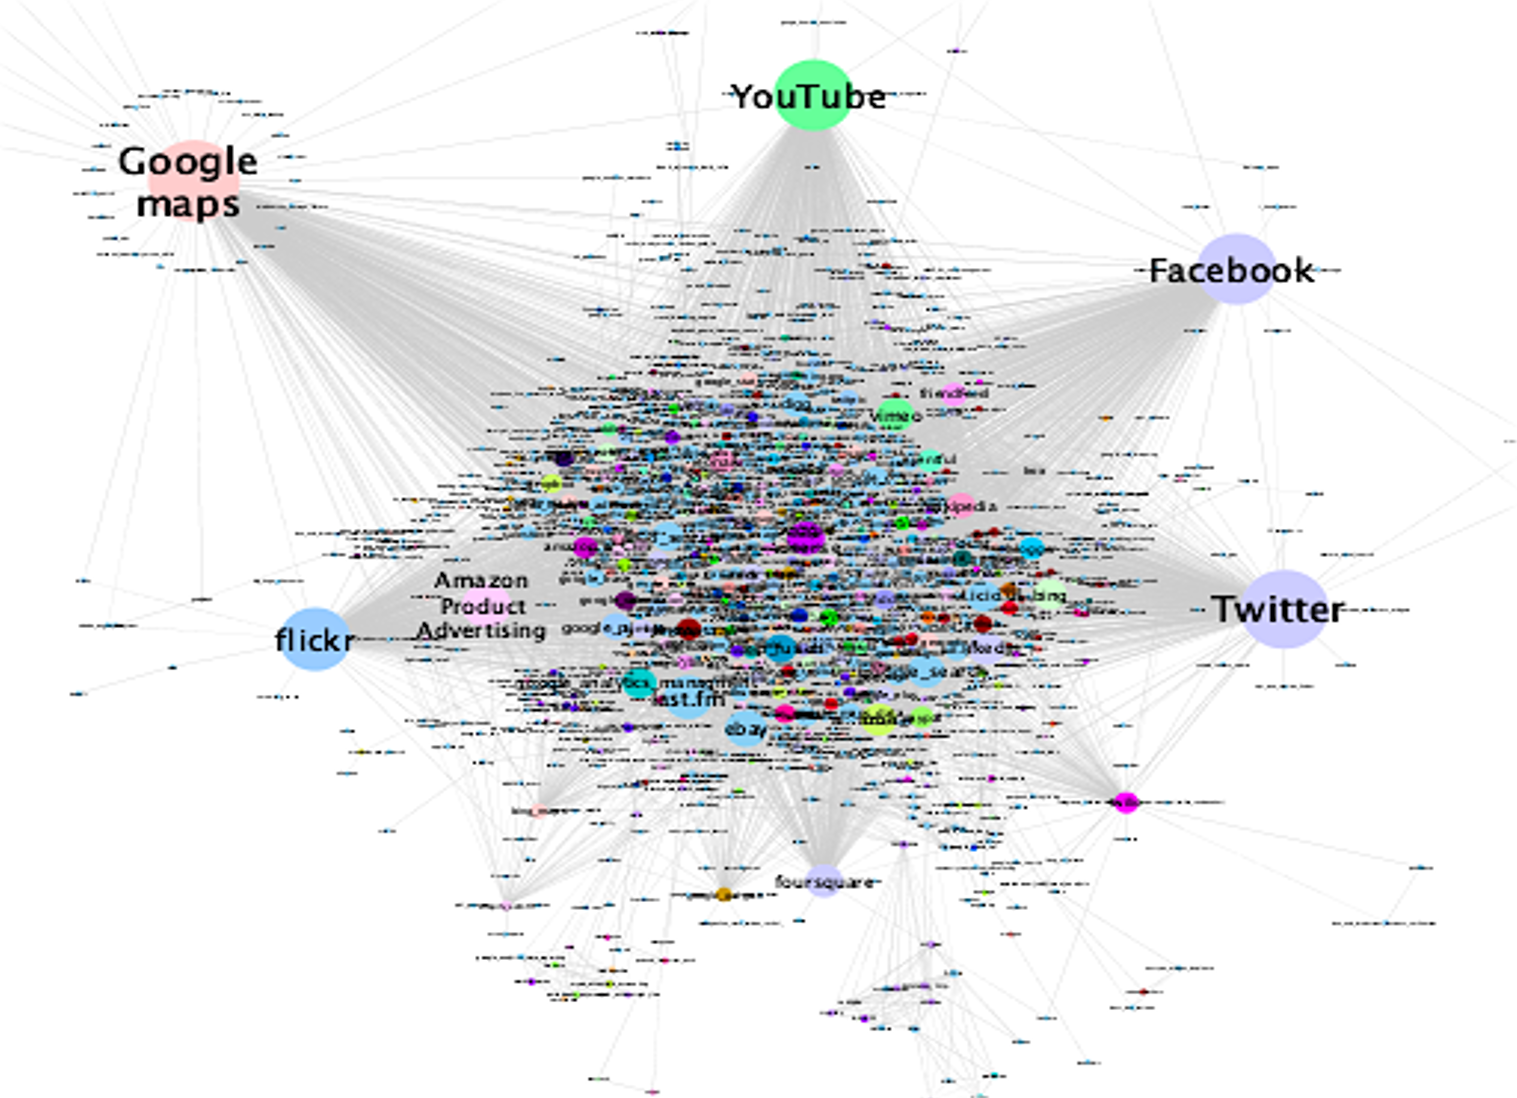
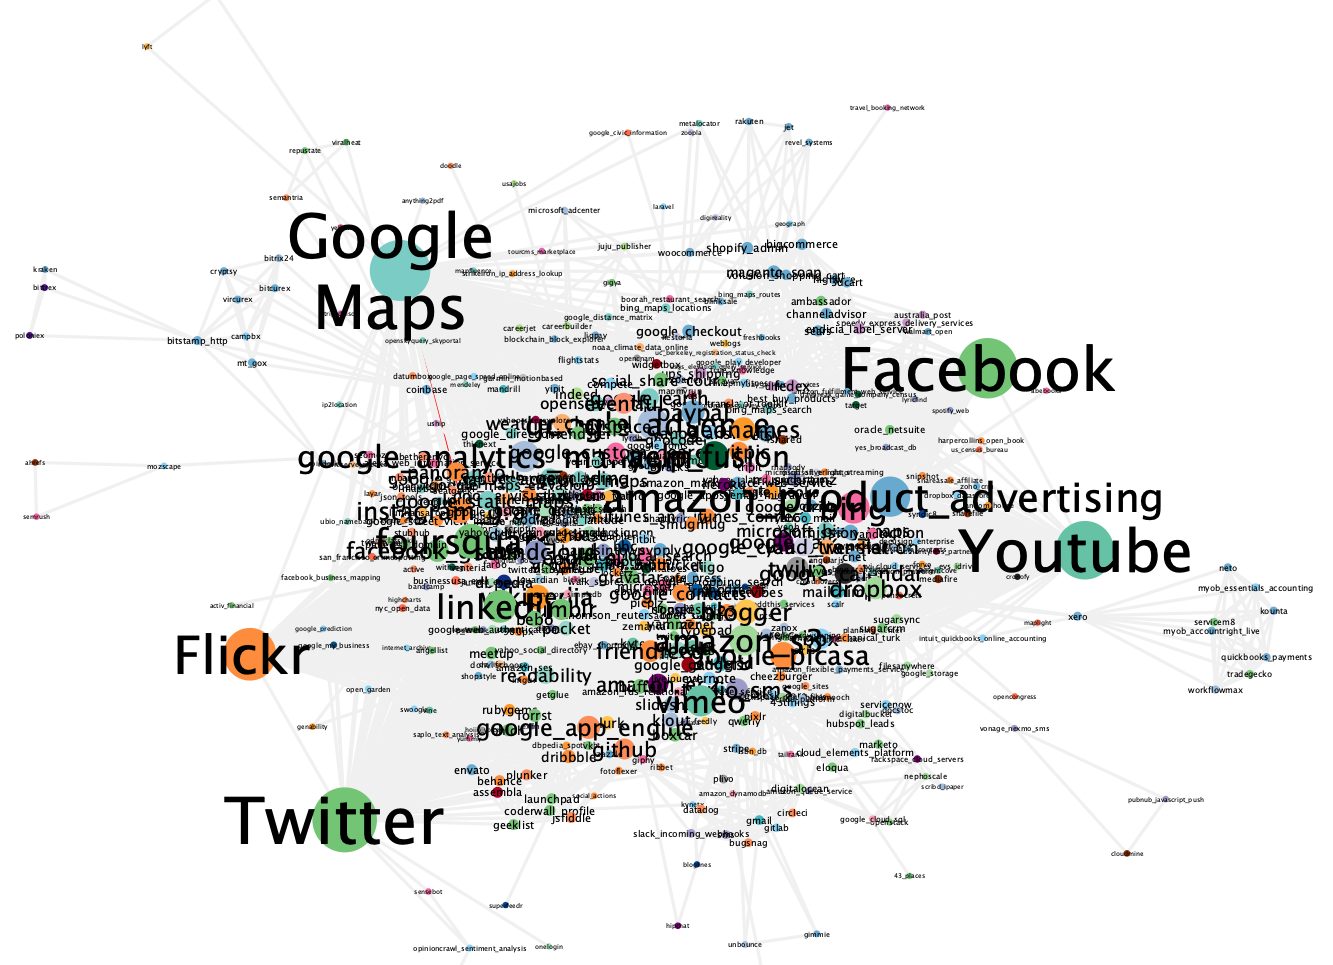
Webの研究/Webサービスのページ
・Webネットワークの画像差し替え
・研究テーマ名の編集

diff --git a/docs/research_service.html b/docs/research_service.html
@@ -87,12 +87,12 @@
                 </div>
             </div>
             <div class="column rightc">
-                <h5 class="header grey-text text-darken-1">Service Clustering</h5>
+                <h5 class="header grey-text text-darken-1">Service Clustering Using Graph Embedding</h5>
                 <p class="normal"> A new service created by combining multiple services is called a composite service. Composite services have the advantage of providing extended functionality over component services or reusing existing services.For example, by combining a map information service and a weather information service, a composite service can be created that displays the weather for each region on a map. In such a composite service, when some of the combined services become unavailable, the entire composite service is affected in a chain reaction. To solve this problem, this research aims to discover services that are functionally similar to the unavailable service by clustering composite services based on their service dependency networks.</p>
                 <p class="ref">
                 [大久保弘基, 村上陽平. グラフ埋め込みを用いた代替サービスの推薦, サービスコンピューティング(SC), 電子情報通信学会技術研究報告, Vol. 119, No. 482, SC2019-48, pp. 85-90, 2020.-In Japanese]
                 </p>
- 
+
             </div>
         </div>
 

diff --git a/docs/research_service-ja.html b/docs/research_service-ja.html
@@ -106,7 +106,7 @@
                 <p class="ref">
                 [大久保弘基, 村上陽平. グラフ埋め込みを用いた代替サービスの推薦, サービスコンピューティング(SC), 電子情報通信学会技術研究報告, Vol. 119, No. 482, SC2019-48, pp. 85-90, 2020.]
                 </p>
- 
+
           </div>
         </div>
     </div>
